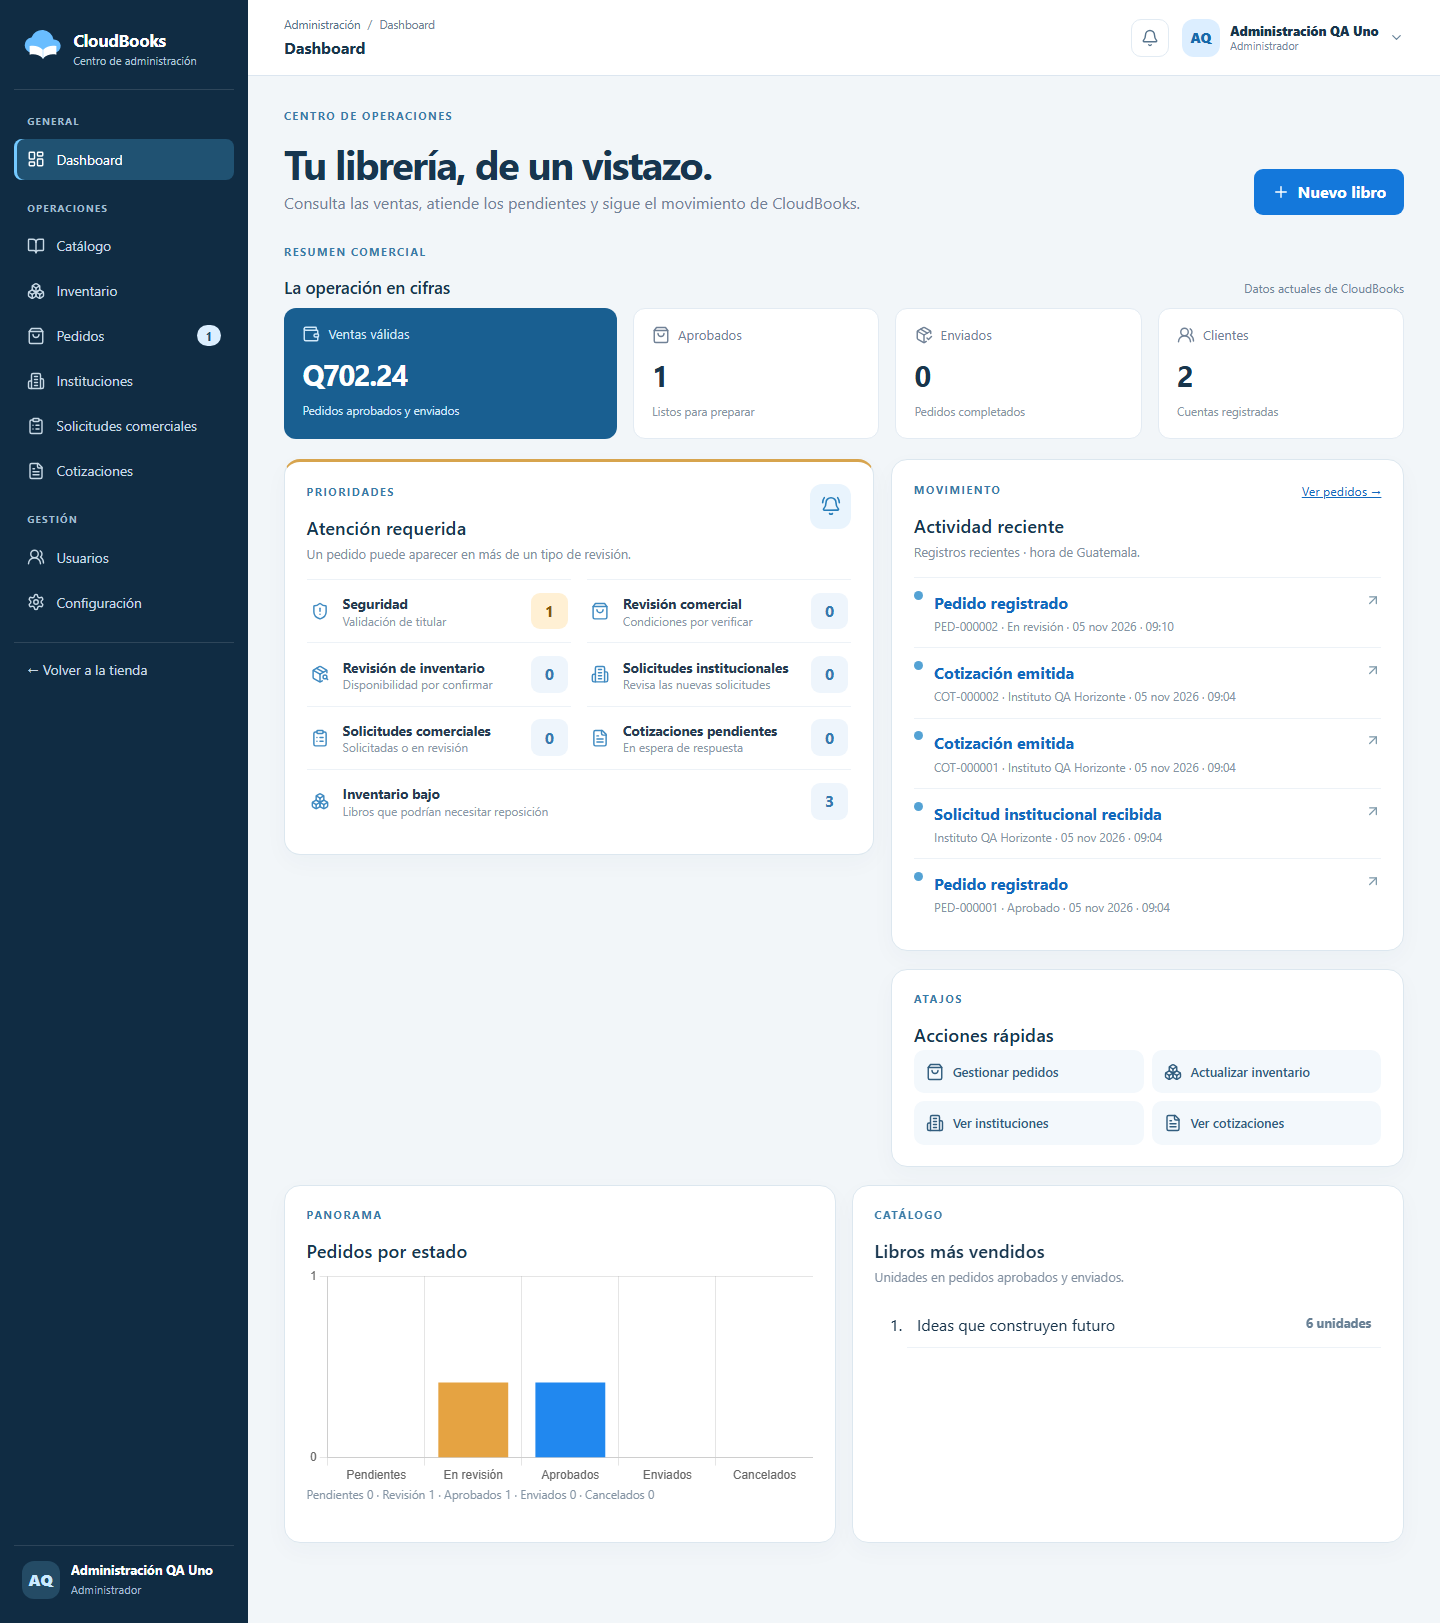
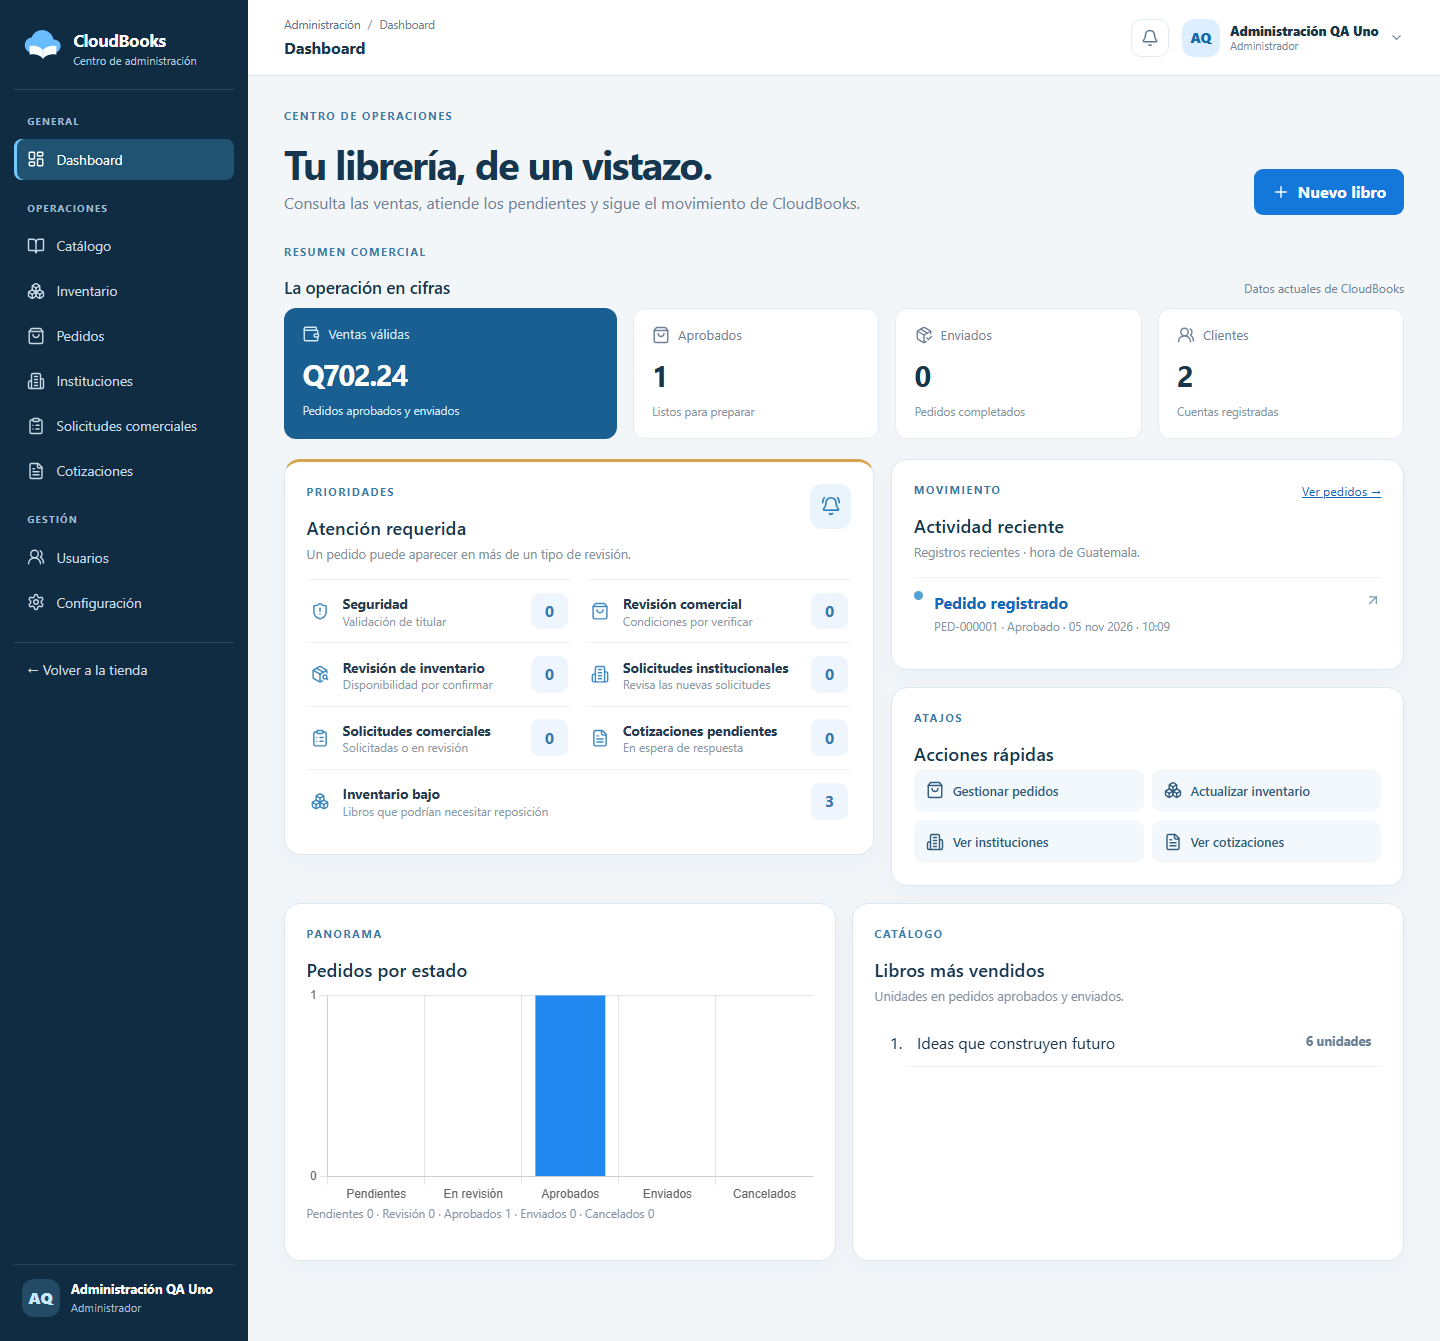
Documentar revisión funcional y evidencias de cierre

diff --git a/documentos/evidencias-qa-integral.md b/documentos/evidencias-qa-integral.md
@@ -1,3 +1,14 @@
+## Cierre funcional: verificaciones adicionales del 5 de noviembre
+
+- Una prueba HTTP nueva, ejecutada en SQL Server restaurado para QA, preparó dos carritos de 6 y 8 unidades sobre stock 12. La primera compra se aprobó; la segunda redirigió al carrito con mensaje de existencias, conservó 8 unidades, no produjo pedido nuevo ni aviso adicional y dejó stock 6. En navegador se reprodujo el rechazo y se ajustó el carrito a 6. [Captura](evidencias/diseno-final/stock-insuficiente-1024.png). No se probó que todas las ejecuciones simultáneas tengan el mismo orden; la prueba concurrente previa cubre otra intercalación.
+- Una prueba HTTP nueva ejerció trece POST administrativos con token de visitante y de minorista, institucional y asesor: se denegaron según rol. Para administrador sin token recibieron 400; un intento con token de cambiar el rol de otro administrador no alteró sus roles. Se comprobó que no cambió el stock observado. No es una matriz exhaustiva de todos los endpoints ni demuestra todos los cambios autorizados.
+- Se amplió el recorrido institucional en una base restaurada distinta: otro cliente institucional recibió 404 al ver, descargar o responder una cotización ajena y el asesor fue denegado al responder; la cotización seguía vigente hasta la respuesta del dueño. La aceptación, vencimiento y rechazo previos siguen cubiertos por el mismo recorrido.
+- En navegador se verificaron alta/edición/desactivación/reactivación de libro QA y validación del formulario; filtros y rechazo de stock negativo; cambio de rol permitido y restauración; error de configuración fuera de rango; y estados vacíos de dashboard, carrito y búsqueda del catálogo. Son escenarios puntuales.
+- Los enlaces `wa.me` de inicio, pedido, usuarios, institución, solicitud y cotización se revisaron mediante sus URL, con el número comercial o teléfono ficticio normalizado, texto contextual y caso de usuario sin teléfono. No se abrió ni envió WhatsApp.
+- Recorrido de navegador en dos sesiones rápidas: catálogo, carrito de visitante, ingreso, compra aprobada, comprobante propio, pedido por titular distinto, dashboard, inventario, avisos y 13 plantillas; luego solicitud institucional, asesor, emisión y PDF de cotización, y enlaces WhatsApp. **No fue una presentación única de diez minutos ni se completó el guion oral.**
+- Se encontró en Gmail el mensaje recibido anteriormente, pero la herramienta de interfaz no inició por el error `failed to write kernel assets`; por tanto no se observó su apariencia real. No se envió correo nuevo. No se identificó una guía docente en los archivos con los nombres buscados.
+
+
 ## Continuación del 5 de noviembre: pruebas adicionales
 
 - Compilación posterior a las correcciones: cero errores y advertencias. La ejecución ordinaria más reciente se indica en la sección de estado final; las pruebas SQL especiales requieren base dedicada y no se consideran aprobadas al aparecer omitidas.
@@ -51,3 +62,5 @@ Utiliza una base nueva por filtro cuando se requiera reproducibilidad completa. 
 ## Límites y pendientes
 
 No se ejecutó navegador visual ni se probaron los tamaños 1440, 1024, 768 y 375 px; no hay capturas. No se verificaron por HTTP todos los permisos, compras ahora, todas las tarjetas, revisión administrativa, flujo institucional completo, contenido visual de PDF ni enlaces WhatsApp. Falta probar más entrelazados: doble aprobación simultánea, fallo en segundo producto en SQL Server, e-book bajo concurrencia y reintentos. La prueba de dos trabajadores no cubre caída de proceso real ni expiración de lease bajo carga. Los filtros HTTP y SQL especiales pueden requerir bases recién restauradas para evitar interacción entre escenarios. No se localizó guía oficial docente.
+
+Se comprobó adicionalmente en navegador la transición aprobado → enviado, revisión comercial → cancelado y revisión de inventario → revisado → aprobado, con stock preparado exclusivamente en QA. No se observó el estado pendiente en esa ejecución.

diff --git a/documentos/revision-diseno-final.md b/documentos/revision-diseno-final.md
@@ -1,3 +1,15 @@
+## Continuación de cierre funcional — 5 de noviembre de 2026
+
+Se inspeccionaron visualmente las capturas completas existentes de las 14 rutas a **1440, 1024 y 768 px**, además de la inspección previa a 375 px. Esto acredita el estado capturado de cada página, no todos sus estados ni controles: en las tablas con desplazamiento horizontal se vio la posición inicial y siguen pendientes las columnas ocultas en cada resolución. Las capturas públicas antiguas preceden al ajuste del pie; la evidencia nueva de stock insuficiente muestra el pie corregido. No se observaron nuevos defectos generales en las vistas inspeccionadas.
+
+La captura anterior de dashboard a 1440 mostraba una barra a mitad de la animación. Se esperó a que terminara y se verificaron los datos y la posición de la barra; se reemplazó [dashboard-1440.png](evidencias/diseno-final/dashboard-1440.png). Se inspeccionó y guardó además [dashboard vacío a 768](evidencias/diseno-final/dashboard-vacio-768.png), con base restaurada sin operaciones, y [stock insuficiente a 1024](evidencias/diseno-final/stock-insuficiente-1024.png).
+
+En navegador y base temporal se comprobaron el catálogo sin resultados, validaciones de creación, alta, edición, desactivación y reactivación de un libro académico; los filtros disponible, bajo, agotado y digital; rechazo de stock negativo; cambio de rol del asesor a minorista y restauración; y validación visible de impuesto fuera de rango. El cliente pudo reducir de 8 a 6 la cantidad tras el mensaje de stock insuficiente. Las operaciones se hicieron solo en QA.
+
+Faltan todavía los recorridos completos de todos los estados y acciones de pedidos, instituciones, cotizaciones y formularios; desplazar las tablas a la última columna en cada resolución; y el ensayo de diez minutos en una sola sesión. La revisión de las capturas **no** equivale a cerrar esos pendientes. La matriz histórica que sigue conserva sus valores originales; esta sección es la actualización vigente.
+
+---
+
 # Continuación de QA visual — 5 de noviembre de 2026
 
 Esta sección actualiza la matriz histórica de abajo. Se ejecutó Chromium con Playwright sobre una base SQL Server aislada, datos académicos y correo simulado. Se capturaron las 14 rutas completas a 1440, 1024, 768 y 375 px; todas respondieron 200 y, en esa ejecución, el ancho global coincidió con el viewport. **Eso no demuestra por sí solo la ausencia de defectos ni la revisión de todas las acciones y estados.** Las imágenes de 1024 y 768 fueron temporales; no se conservan como evidencia de entrega. Las capturas de 375 se inspeccionaron completas, en el estado mostrado, y las tablas requieren desplazamiento horizontal interno. Se guardaron las capturas prioritarias indicadas abajo; el correo personal del pie se cubrió con una máscara gris y se sustituyeron los nombres de los administradores en la base de QA.
@@ -81,3 +93,5 @@ La verificación es parcial: una captura de la parte visible y una medición no 
 2. Comprobar botones de correo con una URL HTTPS pública válida y autorizada, pies y contenido largo en las 13 variantes, y realizar pruebas separadas en Gmail y Outlook.
 3. Completar la revisión de accesibilidad, estados vacíos, errores del checkout y permisos/acciones para cada rol; comprobar las rutas y formatos con más datos.
 4. No hacer merge ni declarar la fase terminada hasta cerrar esas evidencias.
+
+En una ejecución posterior en la misma base aislada, el pedido aprobado se marcó enviado; otro entró en revisión comercial y se canceló; un tercero entró en revisión de inventario, se marcó revisado y se aprobó. La revisión de seguridad se había observado en el recorrido anterior. Sigue pendiente la presentación del estado pendiente y una revisión de todos los mensajes por ancho.

diff --git a/documentos/checklist-entrega-final.md b/documentos/checklist-entrega-final.md
@@ -1,0 +1,17 @@
+# Checklist de entrega CloudBooks — 5 de noviembre de 2026
+
+Estado: **NO LISTO PARA ENTREGA** frente a los criterios explícitos de esta solicitud. Los resultados parciales y fuentes están en [QA](evidencias-qa-integral.md), [diseño](revision-diseno-final.md) y [guion](guion-demostracion-final.md). No se localizó una guía docente con los nombres buscados; esta lista no le atribuye requisitos.
+
+| Elemento | Resultado verificable | Pendiente |
+|---|---|---|
+| 14 rutas y cuatro anchos | Imágenes completas inspeccionadas en el estado capturado; 19 PNG conservados en [evidencias](evidencias/diseno-final/README.md). | Recorrer columnas ocultas de tablas y completar estados y acciones en los cuatro anchos. |
+| Catálogo e inventario | Alta, edición, desactivación/reactivación, búsqueda vacía, filtros y rechazo de negativo en QA. | Completar combinaciones de formularios y validaciones. |
+| Checkout | HTTP y navegador: dos carritos con stock cambiante; carrito conservado y cantidad ajustable, sin segundo pedido ni aviso. | Revisar el estado pendiente y las combinaciones restantes. |
+| Roles y privados | Lecturas de 12 rutas, trece POST con antiforgery y roles, protección de administrador; cotización propia/ajena y PDF comprobados. | Ampliar la matriz a los demás POST, recursos y mutaciones autorizadas. |
+| Instituciones y cotizaciones | Solicitud, asesor, emisión, aceptación, rechazo, vencimiento y PDF comprobados en pruebas aisladas. | Revisar visualmente todos los estados y acciones. |
+| WhatsApp | Se inspeccionaron los seis tipos de enlace y el caso sin teléfono; no se envió nada. | Ningún envío automático es parte de la prueba. |
+| Correos | 13 variantes vistas en HTML; un mensaje anterior llegó a Gmail. | Inspección visual en Gmail/Outlook y botones con URL pública válida si se dispone de acceso; son dependencias externas. |
+| PDF | Comprobante y cotización multipágina inspeccionados previamente; descargas propias y ajenas verificadas por HTTP. | Mantener los ejemplos académicos y no presentar el comprobante como factura fiscal. |
+| Demo | Recorridos rápidos en dos partes con datos temporales y correo simulado. | Ensayar el guion completo en una sesión de aproximadamente diez minutos y registrar tiempo e incidencias. |
+| Pruebas | Build 0 errores/advertencias; `dotnet test --no-build`: 92 aprobadas, 16 omitidas, 0 fallidas de 108. Dos pruebas SQL nuevas y la institucional ampliada pasaron por separado. | Las pruebas omitidas requieren bases SQL dedicadas o autorización para correo real. |
+| Git | Verificar rama limpia y sincronizada tras publicar esta continuación. | No hacer merge sin autorización. |

diff --git a/documentos/guion-demostracion-final.md b/documentos/guion-demostracion-final.md
@@ -19,3 +19,9 @@ Para mostrar la aprobación institucional, volver a iniciar sesión tras la deci
 **Pendiente de ensayo completo cronometrado.** Los recorridos parciales de compra, revisión, administración e institución se comprobaron por separado, pero no constituyen una demostración completa de diez minutos. No usar como datos finales el pedido manipulado para el PDF largo.
 
 Para el ensayo, restaurar el SQL en una base exclusiva, usar Development y `Correo:Proveedor=Simulado`; confirmar las cuentas de demostración, stock del libro elegido y las tarjetas ficticias antes de empezar. Preparar una compra aprobada y otra con titular distinto para revisión; comprobar dashboard e inventario. Crear una solicitud institucional, aprobarla, volver a iniciar sesión, crear solicitud comercial, ingresar como asesor y emitir una cotización. Comprobar acceso al PDF como dueño, historial y plantillas simuladas. Para fondos insuficientes, verificar el mensaje y la conservación del carrito antes de la compra aprobada. En WhatsApp mostrar el enlace sin enviar. El guion de tiempos anterior debe recorrerse una vez con cronómetro y registrar el resultado antes de declarar el ensayo exitoso.
+
+## Recorrido ejecutado en esta continuación
+
+Se recorrieron en Chromium dos partes automáticas: (1) inicio, catálogo, carrito de visitante, ingreso, compra aprobada y comprobante, pedido en revisión, dashboard, inventario, avisos y 13 plantillas; (2) solicitud institucional, revisión por asesor, emisión y PDF de cotización, y enlaces WhatsApp. Las partes tardaron aproximadamente 5 y 4 segundos de automatización, sin exposición oral; la primera tuvo que detenerse antes de la solicitud por un selector ambiguo, resuelto en la segunda. **No se considera un ensayo de diez minutos ni un recorrido continuo completo.**
+
+Para el ensayo pendiente, restaurar el SQL en una base exclusiva, preparar stock suficiente y las cuentas de prueba, y dejar lista una cotización o solicitud. Recorrer la tabla de tiempos con una persona y un cronómetro; registrar duración, incidencias y resultado. No activar Resend ni enviar WhatsApp. Si el tiempo se excede, precargar el pedido en revisión y la cotización; no afirmar que la prueba automática anterior validó el tiempo de exposición.

diff --git a/documentos/estado-final-proyecto.md b/documentos/estado-final-proyecto.md
@@ -93,3 +93,7 @@ La matriz detallada y sus límites están en [revisión de diseño final](revisi
 Siguen pendientes la inspección visual completa a 1440/1024/768 y de todos los estados y acciones, stock insuficiente en checkout, la matriz de POST y recursos privados, botones de correo con URL pública válida, apariencia en Gmail/Outlook y el ensayo completo de demostración. La recepción del correo anterior sí fue comprobada en Gmail mediante el conector; su apariencia no. No se ha enviado correo ni WhatsApp durante esta continuación.
 
 Verificación final de esta continuación: `dotnet build` con 0 errores y 0 advertencias; `dotnet test --no-build` con 92 aprobadas, 0 fallidas y 14 omitidas de 106. Las pruebas SQL especiales citadas se ejecutaron por separado; el envío real permaneció omitido.
+
+## Continuación funcional del 5 de noviembre — estado vigente
+
+**NO LISTO PARA ENTREGA bajo los criterios solicitados.** La inspección de capturas se amplió a las 14 rutas en los cuatro anchos, pero la revisión de todos los estados, columnas de tablas y acciones sigue incompleta. El checkout con stock cambiante, protección de trece POST, cotización ajena y varios formularios se comprobaron en bases aisladas. Pasaron las pruebas ordinarias y especiales detalladas en [QA](evidencias-qa-integral.md). El recorrido de demostración fue automático, rápido y en dos partes: falta el ensayo completo cronometrado. Los límites de Gmail, Outlook y URL pública son dependencias externas, no defectos demostrados ni requisitos docentes inventados. La [checklist vigente](checklist-entrega-final.md) reemplaza como estado actual las clasificaciones históricas anteriores.

diff --git a/documentos/evidencias/diseno-final/README.md b/documentos/evidencias/diseno-final/README.md
@@ -14,3 +14,11 @@ Capturas reales de Chromium/Playwright sobre CloudBooks en Development, una base
 Se produjeron capturas temporales adicionales a 1024 y 768 px; no se guardaron en el repositorio. La [matriz de revisión](../../revision-diseno-final.md) distingue esas capturas y mediciones de la inspección visual y de las acciones aún pendientes. Una captura HTML no demuestra compatibilidad con Gmail u Outlook.
 
 Para reproducir la revisión manual, restaura `base-datos/CloudBooks.sql` en una base dedicada, usa Development con `Correo:Proveedor=Simulado` y las [cuentas ficticias](../../credenciales-prueba.md). Recorre cada pantalla hasta el pie a los cuatro anchos; en tablas mueve el contenido horizontalmente hasta la última columna. No uses la base principal ni actives Resend para estas pruebas.
+
+## Evidencias añadidas en la continuación funcional
+
+- [Dashboard sin actividad a 768 px](dashboard-vacio-768.png).
+- [Carrito con aviso de stock insuficiente a 1024 px](stock-insuficiente-1024.png); el correo personal del pie está enmascarado.
+- Se reemplazó `dashboard-1440.png` después de esperar la animación de la gráfica, que ahora muestra la barra en la categoría correcta.
+
+Se inspeccionaron las imágenes temporales de las 14 rutas a 1440, 1024 y 768 px; las tablas se vieron en su posición horizontal inicial y los estados no cubiertos se enumeran en la [matriz](../../revision-diseno-final.md).

diff --git a/documentos/correo-transaccional.md b/documentos/correo-transaccional.md
@@ -55,3 +55,7 @@ El 4 de noviembre de 2026 se realizó una única prueba real con `CloudBooks <on
 ## Recepción observada y comprobación visual pendiente — 5 de noviembre
 
 La búsqueda del buzón Gmail mediante el conector encontró en la bandeja de entrada el ejemplo de pedido aprobado enviado el 4 de noviembre. Esto confirma recepción en esa cuenta; no se observó su presentación en la interfaz de Gmail ni en Outlook. Las 13 vistas de demostración se capturaron completas en marcos de 600, 430 y 375 px y se revisaron visualmente en hojas de contacto; faltan botones con URL pública válida y pruebas de clientes reales. Véase la [matriz de diseño](revision-diseno-final.md). No se enviaron mensajes nuevos.
+
+## Continuación funcional del 5 de noviembre
+
+La recepción anterior se comprobó mediante el conector de Gmail. Se intentó acceder a la interfaz para revisar su presentación, pero el entorno de interfaz falló al iniciar (`failed to write kernel assets`); la apariencia de Gmail escritorio/móvil y Outlook continúa sin comprobarse. No se realizaron envíos nuevos. Los botones a la aplicación permanecen condicionados a una URL HTTPS pública válida y controlada; la falta de esa URL o de Outlook no se presenta como un defecto de CloudBooks ni como requisito docente sin guía.

diff --git a/README.md b/README.md
@@ -105,3 +105,7 @@ Las pruebas automatizadas usan SQLite aislado para reglas y servicios; las opera
 El carrito de visitantes se guarda en la sesión del navegador. Al iniciar sesión o registrarse, sus cantidades se suman al carrito de la cuenta. Si un artículo ya no está disponible o supera las existencias, permanece en la sesión para que el cliente lo ajuste o retire antes de finalizar la compra. El resumen de visitante es estimado; el descuento institucional se aplica después de iniciar sesión. La sesión utiliza la memoria de la aplicación y puede perderse al reiniciar el servidor o al caducar.
 
 En Inicio, “Más vendidos” suma unidades de pedidos aprobados y enviados; si hay menos de cuatro títulos con ventas se muestra “Lecturas destacadas” en orden alfabético. Los administradores pueden marcar libros como recomendados al crear o editar. Los últimos cinco títulos consultados se guardan en la sesión; no incluyen datos personales.
+
+## Estado de preparación de la entrega
+
+La lista vigente de verificaciones, evidencias y pendientes se encuentra en [checklist de entrega](documentos/checklist-entrega-final.md). El pago es una simulación académica; el comprobante no es factura fiscal y el correo automático de QA se mantiene en modo simulado.
